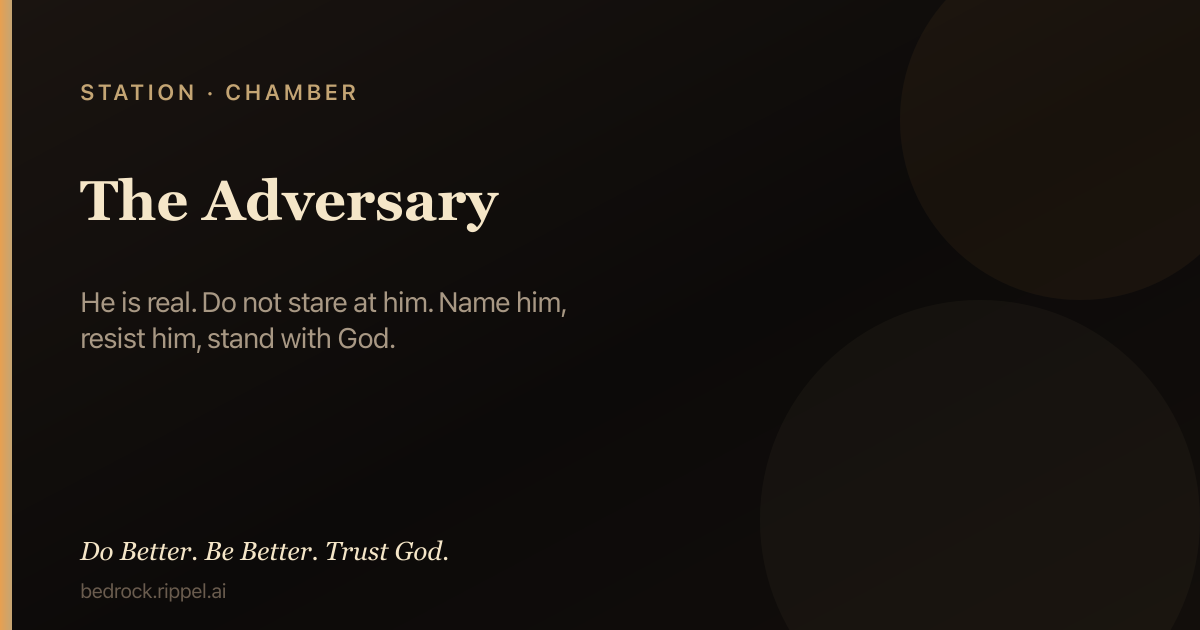
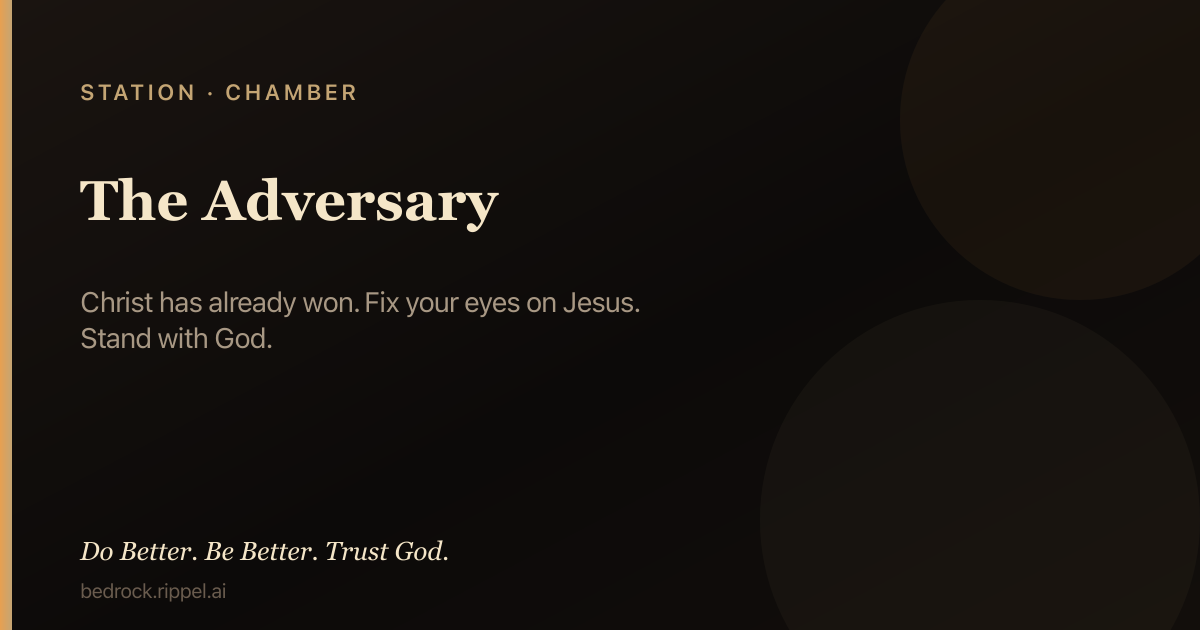
Christ-centered war language: no stare, no enemy focus
Application holds and path notes fix eyes on Jesus. Christ has won.
Scripture Truth may still name the adversary; we do not center him.

Changed region(s): [[0.0617, 0.4524, 0.5242, 0.573]]

diff --git a/public/c/the-adversary.html b/public/c/the-adversary.html
@@ -4,7 +4,7 @@
   <meta charset="utf-8" />
   <meta name="viewport" content="width=device-width, initial-scale=1" />
   <title>The Adversary — Bedrock</title>
-  <meta name="description" content="He is real. Do not stare at him. Name him, resist him, stand with God. Hold first: Under fire, prayer, then Truth. Do Better. Be Better. Trust God." />
+  <meta name="description" content="Christ has already won. Fix your eyes on Jesus. Stand with God. Hold first: Under fire, prayer, then Truth. Do Better. Be Better. Trust God." />
   <meta name="robots" content="index, follow, max-image-preview:large, max-snippet:-1" />
   <meta name="ai-content-declaration" content="human-authored Christian field guide; hold-first: Under fire, Prayer, then Truth" />
   <link rel="canonical" href="https://bedrock.rippel.ai/c/the-adversary" />
@@ -12,7 +12,7 @@
   <meta property="og:site_name" content="Bedrock" />
   <meta property="og:type" content="article" />
   <meta property="og:title" content="The Adversary — Bedrock" />
-  <meta property="og:description" content="He is real. Do not stare at him. Name him, resist him, stand with God. Hold first: Under fire, prayer, then Truth. Do Better. Be Better. Trust God." />
+  <meta property="og:description" content="Christ has already won. Fix your eyes on Jesus. Stand with God. Hold first: Under fire, prayer, then Truth. Do Better. Be Better. Trust God." />
   <meta property="og:url" content="https://bedrock.rippel.ai/c/the-adversary" />
   <meta property="og:image" content="https://bedrock.rippel.ai/og/c/the-adversary.png" />
   <meta property="og:image:secure_url" content="https://bedrock.rippel.ai/og/c/the-adversary.png" />
@@ -22,14 +22,14 @@
   <meta property="og:image:alt" content="The Adversary — Bedrock" />
   <meta name="twitter:card" content="summary_large_image" />
   <meta name="twitter:title" content="The Adversary — Bedrock" />
-  <meta name="twitter:description" content="He is real. Do not stare at him. Name him, resist him, stand with God. Hold first: Under fire, prayer, then Truth. Do Better. Be Better. Trust God." />
+  <meta name="twitter:description" content="Christ has already won. Fix your eyes on Jesus. Stand with God. Hold first: Under fire, prayer, then Truth. Do Better. Be Better. Trust God." />
   <meta name="twitter:image" content="https://bedrock.rippel.ai/og/c/the-adversary.png" />
   <meta name="twitter:image:alt" content="The Adversary — Bedrock" />
   <script type="application/ld+json">
-  {"@context":"https://schema.org","@type":"Article","headline":"The Adversary","description":"He is real. Do not stare at him. Name him, resist him, stand with God.","url":"https://bedrock.rippel.ai/c/the-adversary","author":{"@type":"Organization","name":"Bedrock","url":"https://bedrock.rippel.ai"},"publisher":{"@type":"Organization","name":"Bedrock","url":"https://bedrock.rippel.ai"},"image":"https://bedrock.rippel.ai/og/c/the-adversary.png","inLanguage":"en","isPartOf":{"@type":"WebSite","name":"Bedrock","url":"https://bedrock.rippel.ai"},"articleSection":"First principle · Hold first","keywords":"The Adversary, Bedrock, Under fire, prayer, Scripture"}
+  {"@context":"https://schema.org","@type":"Article","headline":"The Adversary","description":"Christ has already won. Fix your eyes on Jesus. Stand with God.","url":"https://bedrock.rippel.ai/c/the-adversary","author":{"@type":"Organization","name":"Bedrock","url":"https://bedrock.rippel.ai"},"publisher":{"@type":"Organization","name":"Bedrock","url":"https://bedrock.rippel.ai"},"image":"https://bedrock.rippel.ai/og/c/the-adversary.png","inLanguage":"en","isPartOf":{"@type":"WebSite","name":"Bedrock","url":"https://bedrock.rippel.ai"},"articleSection":"First principle · Hold first","keywords":"The Adversary, Bedrock, Under fire, prayer, Scripture"}
   </script>
   <script type="application/ld+json">
-  {"@context":"https://schema.org","@type":"HowTo","name":"Use The Adversary under fire (Bedrock hold-first)","description":"Open this chamber for the next right hold: Under fire first, then Prayer, then Truth when you can read.","step":[{"@type":"HowToStep","position":1,"name":"Under fire","text":"He is real. Name him when Scripture does. Then fix your eyes on Jesus. Judge by fruit. Do not stare at the devil. Submit to God. Resist the devil. Stand in the Word."},{"@type":"HowToStep","position":2,"name":"Prayer","text":"Father, I stand with You. Amen."},{"@type":"HowToStep","position":3,"name":"Truth","text":"When capacity returns, read the Scripture-rooted body on this page."}],"url":"https://bedrock.rippel.ai/c/the-adversary"}
+  {"@context":"https://schema.org","@type":"HowTo","name":"Use The Adversary under fire (Bedrock hold-first)","description":"Open this chamber for the next right hold: Under fire first, then Prayer, then Truth when you can read.","step":[{"@type":"HowToStep","position":1,"name":"Under fire","text":"Christ has already won. Fix your eyes on Jesus. Judge by fruit. Keep your mind on the Lord. Submit to God. Stand in the Word. Draw near to Him."},{"@type":"HowToStep","position":2,"name":"Prayer","text":"Father, I stand with You in Christ. Amen."},{"@type":"HowToStep","position":3,"name":"Truth","text":"When capacity returns, read the Scripture-rooted body on this page."}],"url":"https://bedrock.rippel.ai/c/the-adversary"}
   </script>
   <script>
 (function(){
@@ -78,7 +78,7 @@
   <main class="wrap">
     <p class="kicker">First principle · Bedrock · Hold first</p>
     <h1>The Adversary</h1>
-    <p class="summary">He is real. Do not stare at him. Name him, resist him, stand with God.</p>
+    <p class="summary">Christ has already won. Fix your eyes on Jesus. Stand with God.</p>
     <nav class="nav" aria-label="Chamber actions">
       <a class="primary" href="/?c=the-adversary">Open in field guide</a>
       <a href="/c/the-adversary.md">Markdown</a>
@@ -88,11 +88,11 @@
     <section class="hold" aria-labelledby="fire">
       <p class="kicker-hold">This hour</p>
       <h2 id="fire">Under fire</h2>
-      <ul><li>He is real. Name him when Scripture does. Then fix your eyes on Jesus.</li>
-<li>Judge by fruit. Do not stare at the devil.</li>
-<li>Submit to God. Resist the devil. Stand in the Word.</li></ul>
+      <ul><li>Christ has already won. Fix your eyes on Jesus.</li>
+<li>Judge by fruit. Keep your mind on the Lord.</li>
+<li>Submit to God. Stand in the Word. Draw near to Him.</li></ul>
       <h2 id="prayer">Prayer</h2>
-      <p class="prayer">Father, I stand with You. Amen.</p>
+      <p class="prayer">Father, I stand with You in Christ. Amen.</p>
     </section>
     <section class="card" aria-labelledby="truth">
       <h2 id="truth">Truth</h2>

diff --git a/public/c/the-word.html b/public/c/the-word.html
@@ -4,7 +4,7 @@
   <meta charset="utf-8" />
   <meta name="viewport" content="width=device-width, initial-scale=1" />
   <title>The Word — Bedrock</title>
-  <meta name="description" content="The enemy says you cannot know or understand. God says His Word is for you — light to the simple. Hold first: Under fire, prayer, then Truth. Do Better…" />
+  <meta name="description" content="The lie says you cannot know or understand. God says His Word is for you — light to the simple. Hold first: Under fire, prayer, then Truth. Do Better. Be…" />
   <meta name="robots" content="index, follow, max-image-preview:large, max-snippet:-1" />
   <meta name="ai-content-declaration" content="human-authored Christian field guide; hold-first: Under fire, Prayer, then Truth" />
   <link rel="canonical" href="https://bedrock.rippel.ai/c/the-word" />
@@ -12,7 +12,7 @@
   <meta property="og:site_name" content="Bedrock" />
   <meta property="og:type" content="article" />
   <meta property="og:title" content="The Word — Bedrock" />
-  <meta property="og:description" content="The enemy says you cannot know or understand. God says His Word is for you — light to the simple. Hold first: Under fire, prayer, then Truth. Do Better…" />
+  <meta property="og:description" content="The lie says you cannot know or understand. God says His Word is for you — light to the simple. Hold first: Under fire, prayer, then Truth. Do Better. Be…" />
   <meta property="og:url" content="https://bedrock.rippel.ai/c/the-word" />
   <meta property="og:image" content="https://bedrock.rippel.ai/og/c/the-word.png" />
   <meta property="og:image:secure_url" content="https://bedrock.rippel.ai/og/c/the-word.png" />
@@ -22,14 +22,14 @@
   <meta property="og:image:alt" content="The Word — Bedrock" />
   <meta name="twitter:card" content="summary_large_image" />
   <meta name="twitter:title" content="The Word — Bedrock" />
-  <meta name="twitter:description" content="The enemy says you cannot know or understand. God says His Word is for you — light to the simple. Hold first: Under fire, prayer, then Truth. Do Better…" />
+  <meta name="twitter:description" content="The lie says you cannot know or understand. God says His Word is for you — light to the simple. Hold first: Under fire, prayer, then Truth. Do Better. Be…" />
   <meta name="twitter:image" content="https://bedrock.rippel.ai/og/c/the-word.png" />
   <meta name="twitter:image:alt" content="The Word — Bedrock" />
   <script type="application/ld+json">
-  {"@context":"https://schema.org","@type":"Article","headline":"The Word","description":"The enemy says you cannot know or understand. God says His Word is for you — light to the simple.","url":"https://bedrock.rippel.ai/c/the-word","author":{"@type":"Organization","name":"Bedrock","url":"https://bedrock.rippel.ai"},"publisher":{"@type":"Organization","name":"Bedrock","url":"https://bedrock.rippel.ai"},"image":"https://bedrock.rippel.ai/og/c/the-word.png","inLanguage":"en","isPartOf":{"@type":"WebSite","name":"Bedrock","url":"https://bedrock.rippel.ai"},"articleSection":"First principle · Hold first","keywords":"The Word, Bedrock, Under fire, prayer, Scripture"}
+  {"@context":"https://schema.org","@type":"Article","headline":"The Word","description":"The lie says you cannot know or understand. God says His Word is for you — light to the simple.","url":"https://bedrock.rippel.ai/c/the-word","author":{"@type":"Organization","name":"Bedrock","url":"https://bedrock.rippel.ai"},"publisher":{"@type":"Organization","name":"Bedrock","url":"https://bedrock.rippel.ai"},"image":"https://bedrock.rippel.ai/og/c/the-word.png","inLanguage":"en","isPartOf":{"@type":"WebSite","name":"Bedrock","url":"https://bedrock.rippel.ai"},"articleSection":"First principle · Hold first","keywords":"The Word, Bedrock, Under fire, prayer, Scripture"}
   </script>
   <script type="application/ld+json">
-  {"@context":"https://schema.org","@type":"HowTo","name":"Use The Word under fire (Bedrock hold-first)","description":"Open this chamber for the next right hold: Under fire first, then Prayer, then Truth when you can read.","step":[{"@type":"HowToStep","position":1,"name":"Under fire","text":"The enemy says you cannot understand. Open the Bible anyway. Read a short passage. Ask the Spirit. Obey the next clear line. Abide in His Word. Truth sets free."},{"@type":"HowToStep","position":2,"name":"Prayer","text":"Father, give light. Teach me. Amen."},{"@type":"HowToStep","position":3,"name":"Truth","text":"When capacity returns, read the Scripture-rooted body on this page."}],"url":"https://bedrock.rippel.ai/c/the-word"}
+  {"@context":"https://schema.org","@type":"HowTo","name":"Use The Word under fire (Bedrock hold-first)","description":"Open this chamber for the next right hold: Under fire first, then Prayer, then Truth when you can read.","step":[{"@type":"HowToStep","position":1,"name":"Under fire","text":"The lie says you cannot understand. God says His Word is for you. Open it. Read a short passage. Ask the Spirit. Obey the next clear line. Abide in His Word. Truth sets free."},{"@type":"HowToStep","position":2,"name":"Prayer","text":"Father, give light. Teach me. Amen."},{"@type":"HowToStep","position":3,"name":"Truth","text":"When capacity returns, read the Scripture-rooted body on this page."}],"url":"https://bedrock.rippel.ai/c/the-word"}
   </script>
   <script>
 (function(){
@@ -78,7 +78,7 @@
   <main class="wrap">
     <p class="kicker">First principle · Bedrock · Hold first</p>
     <h1>The Word</h1>
-    <p class="summary">The enemy says you cannot know or understand. God says His Word is for you — light to the simple.</p>
+    <p class="summary">The lie says you cannot know or understand. God says His Word is for you — light to the simple.</p>
     <nav class="nav" aria-label="Chamber actions">
       <a class="primary" href="/?c=the-word">Open in field guide</a>
       <a href="/c/the-word.md">Markdown</a>
@@ -88,7 +88,7 @@
     <section class="hold" aria-labelledby="fire">
       <p class="kicker-hold">This hour</p>
       <h2 id="fire">Under fire</h2>
-      <ul><li>The enemy says you cannot understand. Open the Bible anyway.</li>
+      <ul><li>The lie says you cannot understand. God says His Word is for you. Open it.</li>
 <li>Read a short passage. Ask the Spirit. Obey the next clear line.</li>
 <li>Abide in His Word. Truth sets free.</li></ul>
       <h2 id="prayer">Prayer</h2>

diff --git a/public/j/spiritual-warfare-fog.html b/public/j/spiritual-warfare-fog.html
@@ -4,13 +4,13 @@
   <meta charset="utf-8" />
   <meta name="viewport" content="width=device-width, initial-scale=1" />
   <title>Spiritual warfare — Bedrock Path</title>
-  <meta name="description" content="The adversary is real. Name him, resist, stand with God. Fix eyes on Christ — not on the devil. Multi-station path in Bedrock. Do Better. Be Better. Trust…" />
+  <meta name="description" content="Christ has already won. Fix your eyes on Jesus. Stand with God. Walk by the Spirit. Multi-station path in Bedrock. Do Better. Be Better. Trust God." />
   <meta name="robots" content="index, follow" />
   <link rel="canonical" href="https://bedrock.rippel.ai/j/spiritual-warfare-fog" />
   <meta property="og:site_name" content="Bedrock" />
   <meta property="og:type" content="article" />
   <meta property="og:title" content="Spiritual warfare — Bedrock Path" />
-  <meta property="og:description" content="The adversary is real. Name him, resist, stand with God. Fix eyes on Christ — not on the devil. Multi-station path in Bedrock. Do Better. Be Better. Trust…" />
+  <meta property="og:description" content="Christ has already won. Fix your eyes on Jesus. Stand with God. Walk by the Spirit. Multi-station path in Bedrock. Do Better. Be Better. Trust God." />
   <meta property="og:url" content="https://bedrock.rippel.ai/j/spiritual-warfare-fog" />
   <meta property="og:image" content="https://bedrock.rippel.ai/og/j/spiritual-warfare-fog.png" />
   <meta property="og:image:secure_url" content="https://bedrock.rippel.ai/og/j/spiritual-warfare-fog.png" />
@@ -20,11 +20,11 @@
   <meta property="og:image:alt" content="Spiritual warfare — Bedrock Path" />
   <meta name="twitter:card" content="summary_large_image" />
   <meta name="twitter:title" content="Spiritual warfare — Bedrock Path" />
-  <meta name="twitter:description" content="The adversary is real. Name him, resist, stand with God. Fix eyes on Christ — not on the devil. Multi-station path in Bedrock. Do Better. Be Better. Trust…" />
+  <meta name="twitter:description" content="Christ has already won. Fix your eyes on Jesus. Stand with God. Walk by the Spirit. Multi-station path in Bedrock. Do Better. Be Better. Trust God." />
   <meta name="twitter:image" content="https://bedrock.rippel.ai/og/j/spiritual-warfare-fog.png" />
   <meta name="twitter:image:alt" content="Spiritual warfare — Bedrock Path" />
   <script type="application/ld+json">
-  {"@context":"https://schema.org","@type":"Article","headline":"Spiritual warfare","description":"The adversary is real. Name him, resist, stand with God. Fix eyes on Christ — not on the devil.","url":"https://bedrock.rippel.ai/j/spiritual-warfare-fog","author":{"@type":"Organization","name":"Bedrock","url":"https://bedrock.rippel.ai"},"publisher":{"@type":"Organization","name":"Bedrock","url":"https://bedrock.rippel.ai"},"image":"https://bedrock.rippel.ai/og/j/spiritual-warfare-fog.png","inLanguage":"en","isPartOf":{"@type":"WebSite","name":"Bedrock","url":"https://bedrock.rippel.ai"},"articleSection":"Path · Journey"}
+  {"@context":"https://schema.org","@type":"Article","headline":"Spiritual warfare","description":"Christ has already won. Fix your eyes on Jesus. Stand with God. Walk by the Spirit.","url":"https://bedrock.rippel.ai/j/spiritual-warfare-fog","author":{"@type":"Organization","name":"Bedrock","url":"https://bedrock.rippel.ai"},"publisher":{"@type":"Organization","name":"Bedrock","url":"https://bedrock.rippel.ai"},"image":"https://bedrock.rippel.ai/og/j/spiritual-warfare-fog.png","inLanguage":"en","isPartOf":{"@type":"WebSite","name":"Bedrock","url":"https://bedrock.rippel.ai"},"articleSection":"Path · Journey"}
   </script>
   <script>
 (function(){
@@ -63,7 +63,7 @@
   <main class="wrap">
     <p class="kicker">Path · Journey · Bedrock</p>
     <h1>Spiritual warfare</h1>
-    <p class="summary">The adversary is real. Name him, resist, stand with God. Fix eyes on Christ — not on the devil.</p>
+    <p class="summary">Christ has already won. Fix your eyes on Jesus. Stand with God. Walk by the Spirit.</p>
     <nav class="nav" aria-label="Path actions">
       <a class="primary" href="/?j=spiritual-warfare-fog">Open this path</a>
       <a href="/c/spiritual-warfare">Door station</a>
@@ -73,10 +73,10 @@
     <section class="card" aria-labelledby="stations">
       <h2 id="stations">7 stations</h2>
       <ol><li><span class="stage-num">1</span> <a href="/c/spiritual-warfare">War</a> <span class="stage-note">— Not against flesh and blood.</span></li>
-<li><span class="stage-num">2</span> <a href="/c/the-adversary">Adversary</a> <span class="stage-note">— Real; do not fixate.</span></li>
+<li><span class="stage-num">2</span> <a href="/c/the-adversary">Adversary</a> <span class="stage-note">— Christ has won. Eyes on Jesus.</span></li>
 <li><span class="stage-num">3</span> <a href="/c/the-full-armor-of-god">Armor</a> <span class="stage-note">— Stand equipped.</span></li>
-<li><span class="stage-num">4</span> <a href="/c/the-word">Word</a> <span class="stage-note">— Sword of the Spirit; fight the lie you cannot understand.</span></li>
-<li><span class="stage-num">5</span> <a href="/c/prayer">Prayer</a> <span class="stage-note">— Pray. Do not spiral into staring at the enemy.</span></li>
+<li><span class="stage-num">4</span> <a href="/c/the-word">Word</a> <span class="stage-note">— Open Scripture. The lie says you cannot understand — God says you can.</span></li>
+<li><span class="stage-num">5</span> <a href="/c/prayer">Prayer</a> <span class="stage-note">— Pray. Keep your eyes on the Lord.</span></li>
 <li><span class="stage-num">6</span> <a href="/c/take-every-thought-captive">Capture</a> <span class="stage-note">— Accusation and despair are not the Spirit.</span></li>
 <li><span class="stage-num">7</span> <a href="/c/hope-of-glory">Stand</a> <span class="stage-note">— Eyes on Christ.</span></li></ol>
     </section>

diff --git a/public/c/spiritual-warfare.html b/public/c/spiritual-warfare.html
@@ -29,7 +29,7 @@
   {"@context":"https://schema.org","@type":"Article","headline":"Spiritual Warfare","description":"We are at war — not against flesh and blood.","url":"https://bedrock.rippel.ai/c/spiritual-warfare","author":{"@type":"Organization","name":"Bedrock","url":"https://bedrock.rippel.ai"},"publisher":{"@type":"Organization","name":"Bedrock","url":"https://bedrock.rippel.ai"},"image":"https://bedrock.rippel.ai/og/c/spiritual-warfare.png","inLanguage":"en","isPartOf":{"@type":"WebSite","name":"Bedrock","url":"https://bedrock.rippel.ai"},"articleSection":"First principle · Hold first","keywords":"Spiritual Warfare, Bedrock, Under fire, prayer, Scripture"}
   </script>
   <script type="application/ld+json">
-  {"@context":"https://schema.org","@type":"HowTo","name":"Use Spiritual Warfare under fire (Bedrock hold-first)","description":"Open this chamber for the next right hold: Under fire first, then Prayer, then Truth when you can read.","step":[{"@type":"HowToStep","position":1,"name":"Under fire","text":"This is not only circumstance. Stay sober and watchful. The lie says you cannot understand the Word. Open Scripture. Fight with it. Stand under Christ. Resist. Do not fight in the flesh."},{"@type":"HowToStep","position":2,"name":"Prayer","text":"Father, I stand in Your strength and Your Word. Amen."},{"@type":"HowToStep","position":3,"name":"Truth","text":"When capacity returns, read the Scripture-rooted body on this page."}],"url":"https://bedrock.rippel.ai/c/spiritual-warfare"}
+  {"@context":"https://schema.org","@type":"HowTo","name":"Use Spiritual Warfare under fire (Bedrock hold-first)","description":"Open this chamber for the next right hold: Under fire first, then Prayer, then Truth when you can read.","step":[{"@type":"HowToStep","position":1,"name":"Under fire","text":"This is not only circumstance. Stay sober and watchful. The lie says you cannot understand the Word. Open Scripture. Obey it. Stand under Christ. Do not fight in the flesh. Eyes on Him."},{"@type":"HowToStep","position":2,"name":"Prayer","text":"Father, I stand in Your strength and Your Word. Amen."},{"@type":"HowToStep","position":3,"name":"Truth","text":"When capacity returns, read the Scripture-rooted body on this page."}],"url":"https://bedrock.rippel.ai/c/spiritual-warfare"}
   </script>
   <script>
 (function(){
@@ -89,8 +89,8 @@
       <p class="kicker-hold">This hour</p>
       <h2 id="fire">Under fire</h2>
       <ul><li>This is not only circumstance. Stay sober and watchful.</li>
-<li>The lie says you cannot understand the Word. Open Scripture. Fight with it.</li>
-<li>Stand under Christ. Resist. Do not fight in the flesh.</li></ul>
+<li>The lie says you cannot understand the Word. Open Scripture. Obey it.</li>
+<li>Stand under Christ. Do not fight in the flesh. Eyes on Him.</li></ul>
       <h2 id="prayer">Prayer</h2>
       <p class="prayer">Father, I stand in Your strength and Your Word. Amen.</p>
     </section>

diff --git a/public/c/the-full-armor-of-god.html b/public/c/the-full-armor-of-god.html
@@ -29,7 +29,7 @@
   {"@context":"https://schema.org","@type":"Article","headline":"The Full Armor of God","description":"The kit for the war — stand.","url":"https://bedrock.rippel.ai/c/the-full-armor-of-god","author":{"@type":"Organization","name":"Bedrock","url":"https://bedrock.rippel.ai"},"publisher":{"@type":"Organization","name":"Bedrock","url":"https://bedrock.rippel.ai"},"image":"https://bedrock.rippel.ai/og/c/the-full-armor-of-god.png","inLanguage":"en","isPartOf":{"@type":"WebSite","name":"Bedrock","url":"https://bedrock.rippel.ai"},"articleSection":"First principle · Hold first","keywords":"The Full Armor of God, Bedrock, Under fire, prayer, Scripture"}
   </script>
   <script type="application/ld+json">
-  {"@context":"https://schema.org","@type":"HowTo","name":"Use The Full Armor of God under fire (Bedrock hold-first)","description":"Open this chamber for the next right hold: Under fire first, then Prayer, then Truth when you can read.","step":[{"@type":"HowToStep","position":1,"name":"Under fire","text":"Put on the armor daily: truth, righteousness, peace, faith, salvation, Word, prayer. Fiery darts will come. Raise the shield of faith. Armor is for standing. Stay dressed. Stay praying."},{"@type":"HowToStep","position":2,"name":"Prayer","text":"Lord, I put on Your armor and stand. Amen."},{"@type":"HowToStep","position":3,"name":"Truth","text":"When capacity returns, read the Scripture-rooted body on this page."}],"url":"https://bedrock.rippel.ai/c/the-full-armor-of-god"}
+  {"@context":"https://schema.org","@type":"HowTo","name":"Use The Full Armor of God under fire (Bedrock hold-first)","description":"Open this chamber for the next right hold: Under fire first, then Prayer, then Truth when you can read.","step":[{"@type":"HowToStep","position":1,"name":"Under fire","text":"Put on the armor daily: truth, righteousness, peace, faith, salvation, Word, prayer. Fiery darts may come. Raise the shield of faith. Eyes on Christ. Armor is for standing. Stay dressed. Stay praying."},{"@type":"HowToStep","position":2,"name":"Prayer","text":"Lord, I put on Your armor and stand. Amen."},{"@type":"HowToStep","position":3,"name":"Truth","text":"When capacity returns, read the Scripture-rooted body on this page."}],"url":"https://bedrock.rippel.ai/c/the-full-armor-of-god"}
   </script>
   <script>
 (function(){
@@ -89,7 +89,7 @@
       <p class="kicker-hold">This hour</p>
       <h2 id="fire">Under fire</h2>
       <ul><li>Put on the armor daily: truth, righteousness, peace, faith, salvation, Word, prayer.</li>
-<li>Fiery darts will come. Raise the shield of faith.</li>
+<li>Fiery darts may come. Raise the shield of faith. Eyes on Christ.</li>
 <li>Armor is for standing. Stay dressed. Stay praying.</li></ul>
       <h2 id="prayer">Prayer</h2>
       <p class="prayer">Lord, I put on Your armor and stand. Amen.</p>

diff --git a/public/c/pharmakeia.html b/public/c/pharmakeia.html
@@ -29,7 +29,7 @@
   {"@context":"https://schema.org","@type":"Article","headline":"Pharmakeia","description":"Sorcery — and every counterfeit power — is works of the flesh.","url":"https://bedrock.rippel.ai/c/pharmakeia","author":{"@type":"Organization","name":"Bedrock","url":"https://bedrock.rippel.ai"},"publisher":{"@type":"Organization","name":"Bedrock","url":"https://bedrock.rippel.ai"},"image":"https://bedrock.rippel.ai/og/c/pharmakeia.png","inLanguage":"en","isPartOf":{"@type":"WebSite","name":"Bedrock","url":"https://bedrock.rippel.ai"},"articleSection":"First principle · Hold first","keywords":"Pharmakeia, Bedrock, Under fire, prayer, Scripture"}
   </script>
   <script type="application/ld+json">
-  {"@context":"https://schema.org","@type":"HowTo","name":"Use Pharmakeia under fire (Bedrock hold-first)","description":"Open this chamber for the next right hold: Under fire first, then Prayer, then Truth when you can read.","step":[{"@type":"HowToStep","position":1,"name":"Under fire","text":"Sorcery and occult “help” are not neutral. Close those doors. Do not buy power or mood control apart from the Lord. If it owns you, renounce it. Draw near to God. Resist the devil."},{"@type":"HowToStep","position":2,"name":"Prayer","text":"Father, I release every counterfeit power. I belong to You. Amen."},{"@type":"HowToStep","position":3,"name":"Truth","text":"When capacity returns, read the Scripture-rooted body on this page."}],"url":"https://bedrock.rippel.ai/c/pharmakeia"}
+  {"@context":"https://schema.org","@type":"HowTo","name":"Use Pharmakeia under fire (Bedrock hold-first)","description":"Open this chamber for the next right hold: Under fire first, then Prayer, then Truth when you can read.","step":[{"@type":"HowToStep","position":1,"name":"Under fire","text":"Sorcery and occult “help” are not neutral. Close those doors. Do not buy power or mood control apart from the Lord. If it owns you, renounce it. Draw near to God. You are His."},{"@type":"HowToStep","position":2,"name":"Prayer","text":"Father, I release every counterfeit power. I belong to You. Amen."},{"@type":"HowToStep","position":3,"name":"Truth","text":"When capacity returns, read the Scripture-rooted body on this page."}],"url":"https://bedrock.rippel.ai/c/pharmakeia"}
   </script>
   <script>
 (function(){
@@ -90,7 +90,7 @@
       <h2 id="fire">Under fire</h2>
       <ul><li>Sorcery and occult “help” are not neutral. Close those doors.</li>
 <li>Do not buy power or mood control apart from the Lord.</li>
-<li>If it owns you, renounce it. Draw near to God. Resist the devil.</li></ul>
+<li>If it owns you, renounce it. Draw near to God. You are His.</li></ul>
       <h2 id="prayer">Prayer</h2>
       <p class="prayer">Father, I release every counterfeit power. I belong to You. Amen.</p>
     </section>

diff --git a/public/c/wheat-and-tares.html b/public/c/wheat-and-tares.html
@@ -29,7 +29,7 @@
   {"@context":"https://schema.org","@type":"Article","headline":"Wheat and Tares","description":"A good farmer sowed wheat; an enemy sowed weeds at night.","url":"https://bedrock.rippel.ai/c/wheat-and-tares","author":{"@type":"Organization","name":"Bedrock","url":"https://bedrock.rippel.ai"},"publisher":{"@type":"Organization","name":"Bedrock","url":"https://bedrock.rippel.ai"},"image":"https://bedrock.rippel.ai/og/c/wheat-and-tares.png","inLanguage":"en","isPartOf":{"@type":"WebSite","name":"Bedrock","url":"https://bedrock.rippel.ai"},"articleSection":"First principle · Hold first","keywords":"Wheat and Tares, Bedrock, Under fire, prayer, Scripture"}
   </script>
   <script type="application/ld+json">
-  {"@context":"https://schema.org","@type":"HowTo","name":"Use Wheat and Tares under fire (Bedrock hold-first)","description":"Open this chamber for the next right hold: Under fire first, then Prayer, then Truth when you can read.","step":[{"@type":"HowToStep","position":1,"name":"Under fire","text":"The field is mixed. Not every plant is the Master’s. Stay awake. The enemy sows while people sleep. Judgment is the Lord’s. Plant good seed. Refuse the weed in you."},{"@type":"HowToStep","position":2,"name":"Prayer","text":"Lord of the harvest, keep me awake and wheat. Amen."},{"@type":"HowToStep","position":3,"name":"Truth","text":"When capacity returns, read the Scripture-rooted body on this page."}],"url":"https://bedrock.rippel.ai/c/wheat-and-tares"}
+  {"@context":"https://schema.org","@type":"HowTo","name":"Use Wheat and Tares under fire (Bedrock hold-first)","description":"Open this chamber for the next right hold: Under fire first, then Prayer, then Truth when you can read.","step":[{"@type":"HowToStep","position":1,"name":"Under fire","text":"The field is mixed. Not every plant is the Master’s. Stay awake. Weeds grow while people sleep. Judgment is the Lord’s. Plant good seed. Refuse the weed in you."},{"@type":"HowToStep","position":2,"name":"Prayer","text":"Lord of the harvest, keep me awake and wheat. Amen."},{"@type":"HowToStep","position":3,"name":"Truth","text":"When capacity returns, read the Scripture-rooted body on this page."}],"url":"https://bedrock.rippel.ai/c/wheat-and-tares"}
   </script>
   <script>
 (function(){
@@ -89,7 +89,7 @@
       <p class="kicker-hold">This hour</p>
       <h2 id="fire">Under fire</h2>
       <ul><li>The field is mixed. Not every plant is the Master’s.</li>
-<li>Stay awake. The enemy sows while people sleep.</li>
+<li>Stay awake. Weeds grow while people sleep.</li>
 <li>Judgment is the Lord’s. Plant good seed. Refuse the weed in you.</li></ul>
       <h2 id="prayer">Prayer</h2>
       <p class="prayer">Lord of the harvest, keep me awake and wheat. Amen.</p>

diff --git a/src/lib/content-integrity.test.ts b/src/lib/content-integrity.test.ts
@@ -77,14 +77,21 @@ describe('bedrock content integrity', () => {
       /serpents|strongholds/,
     )
     expect(byId.has('the-word')).toBe(true)
-    expect(byId.get('the-word')!.summary.toLowerCase()).toMatch(/enemy|understand|word|simple/)
-    expect(byId.get('the-word')!.hacks.join(' ').toLowerCase()).toMatch(/cannot understand|enemy/)
+    expect(byId.get('the-word')!.summary.toLowerCase()).toMatch(/lie|understand|word|simple|god/)
+    expect(byId.get('the-word')!.hacks.join(' ').toLowerCase()).toMatch(/cannot understand|lie|word/)
     expect(byId.has('the-adversary')).toBe(true)
-    expect(byId.get('the-adversary')!.summary.toLowerCase()).toMatch(/real|resist|stand|devil|eyes/)
+    // Application is Christ-centered (defeated foe); Truth body may quote Scripture that names him
+    expect(byId.get('the-adversary')!.summary.toLowerCase()).toMatch(/christ|jesus|won|eyes|stand/)
     expect(byId.get('the-adversary')!.body.map((b) => b.text).join(' ').toLowerCase()).toMatch(
-      /devil|adversary|weeds|evil one|persecut/,
+      /devil|adversary|weeds|evil one|persecut|crush satan|resist/,
     )
-    expect(byId.get('the-adversary')!.hacks.join(' ').toLowerCase()).toMatch(/stare|fixate|fascinat|resist/)
+    expect(byId.get('the-adversary')!.hacks.join(' ').toLowerCase()).toMatch(
+      /jesus|christ|stand|word|fruit/,
+    )
+    // Never teach staring / fixating on the adversary in holds
+    expect(byId.get('the-adversary')!.hacks.join(' ').toLowerCase()).not.toMatch(
+      /stare|fixate|fascinat/,
+    )
     expect(byId.has('spiritual-warfare')).toBe(true)
     expect(byId.has('works-of-the-flesh')).toBe(true)
     expect(byId.has('wheat-and-tares')).toBe(true)

diff --git a/public/j/battlefield-of-the-mind.html b/public/j/battlefield-of-the-mind.html
@@ -75,7 +75,7 @@
       <ol><li><span class="stage-num">1</span> <a href="/c/take-every-thought-captive">War</a> <span class="stage-note">— The blow is a thought. Capture it.</span></li>
 <li><span class="stage-num">2</span> <a href="/c/kill-the-flesh-walk-in-the-spirit">Standard</a> <span class="stage-note">— Kill the flesh. Walk in the Spirit. Use the full holds when needed.</span></li>
 <li><span class="stage-num">3</span> <a href="/c/rumination">Loop</a> <span class="stage-note">— Replay and building a case are not the Holy Spirit. Capture. Replace.</span></li>
-<li><span class="stage-num">4</span> <a href="/c/the-adversary">Darts</a> <span class="stage-note">— Fiery darts are real. Do not give him your mind.</span></li>
+<li><span class="stage-num">4</span> <a href="/c/the-adversary">Darts</a> <span class="stage-note">— Fiery darts may come. Raise the shield of faith. Eyes on Jesus.</span></li>
 <li><span class="stage-num">5</span> <a href="/c/regret">Condemnation</a> <span class="stage-note">— Godly grief leads to life. Worldly grief only kills. Self-hate is not holiness.</span></li>
 <li><span class="stage-num">6</span> <a href="/c/wounded">Wounds</a> <span class="stage-note">— Harsh words stick. God is near the crushed. Do not hide in hate.</span></li>
 <li><span class="stage-num">7</span> <a href="/c/renew-your-mind">Renew</a> <span class="stage-note">— One thought at a time. Word over the spiral.</span></li>

diff --git a/public/j/persecution.html b/public/j/persecution.html
@@ -74,7 +74,7 @@
       <h2 id="stations">6 stations</h2>
       <ol><li><span class="stage-num">1</span> <a href="/c/persecution">Persecution</a> <span class="stage-note">— For His name — not every conflict is this.</span></li>
 <li><span class="stage-num">2</span> <a href="/c/the-full-armor-of-god">Armor</a> <span class="stage-note">— Stand.</span></li>
-<li><span class="stage-num">3</span> <a href="/c/spiritual-warfare">Warfare</a> <span class="stage-note">— Not against flesh and blood. Do not stare at the devil.</span></li>
+<li><span class="stage-num">3</span> <a href="/c/spiritual-warfare">Warfare</a> <span class="stage-note">— Not against flesh and blood. Stand under Christ.</span></li>
 <li><span class="stage-num">4</span> <a href="/c/do-not-repay-evil-with-evil">Do not repay</a> <span class="stage-note">— Bless when insulted.</span></li>
 <li><span class="stage-num">5</span> <a href="/c/the-faithful-servant">Faithful</a> <span class="stage-note">— Found doing when He comes.</span></li>
 <li><span class="stage-num">6</span> <a href="/c/hope-of-glory">Hope</a> <span class="stage-note">— Crowns for those who remain.</span></li></ol>

diff --git a/src/lib/spine.ts b/src/lib/spine.ts
@@ -108,7 +108,7 @@ export const SPINE_ANCHORS = [
   'forgive-as-you-have-been-forgiven',
   'renew-your-mind',
   'the-word', // combat the lie that people cannot know or understand Scripture
-  'the-adversary', // real; name him — do not fixate; stand with God
+  'the-adversary', // Christ has won — eyes on Jesus; stand with God
   'spiritual-warfare',
   'works-of-the-flesh',
   'the-full-armor-of-god',

diff --git a/public/c/README.md b/public/c/README.md
@@ -53,8 +53,8 @@ Canonical field-guide pages for crawlers and answer engines.
 - [Control](https://bedrock.rippel.ai/c/control) — Open the hand — trust is not passivity; self-control rules you, not them.
 - [Renew Your Mind](https://bedrock.rippel.ai/c/renew-your-mind) — Transformed mind.
 - [Take Every Thought Captive](https://bedrock.rippel.ai/c/take-every-thought-captive) — Divine power demolishes strongholds — take every thought captive to Christ.
-- [The Word](https://bedrock.rippel.ai/c/the-word) — The enemy says you cannot know or understand. God says His Word is for you — light to the simple.
-- [The Adversary](https://bedrock.rippel.ai/c/the-adversary) — He is real. Do not stare at him. Name him, resist him, stand with God.
+- [The Word](https://bedrock.rippel.ai/c/the-word) — The lie says you cannot know or understand. God says His Word is for you — light to the simple.
+- [The Adversary](https://bedrock.rippel.ai/c/the-adversary) — Christ has already won. Fix your eyes on Jesus. Stand with God.
 - [Spiritual Warfare](https://bedrock.rippel.ai/c/spiritual-warfare) — We are at war — not against flesh and blood.
 - [Wheat and Tares](https://bedrock.rippel.ai/c/wheat-and-tares) — A good farmer sowed wheat; an enemy sowed weeds at night.
 - [Persecution](https://bedrock.rippel.ai/c/persecution) — Blessed when they revile you for His name — stand, bless, do not repay evil.
